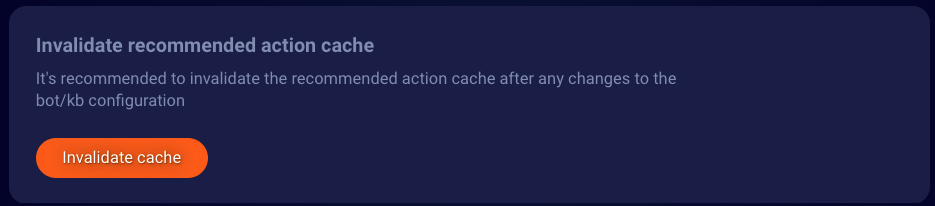
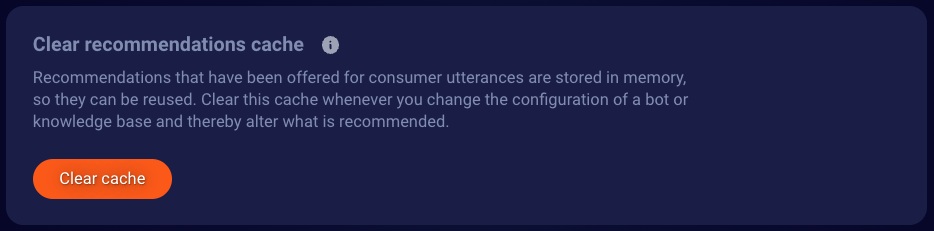
Update docs on clearing the cache

diff --git a/pages/Documents/ConversationalAI/ConversationAssist/RecommendationSources/clearing-the-recommendations-cache.md b/pages/Documents/ConversationalAI/ConversationAssist/RecommendationSources/clearing-the-recommendations-cache.md
@@ -28,6 +28,6 @@ If you don’t clear the cache when appropriate, your agents might not receive t
 ### Clear the recommendations cache
 
 1. [Access Conversation Assist](conversation-assist-overview.html#access-conversation-assist), and click **Settings**.
-2. Scroll down to **Invalidate recommended action cache**, and click **Invalidate cache**.
+2. Scroll down to **Clear recommendations cache**, and click **Clear cache**.
 
     <img width="800" alt="Button on Settings page for clearing recommendations cache" src="img/agentassist/clear_recommendations_cache.png">
